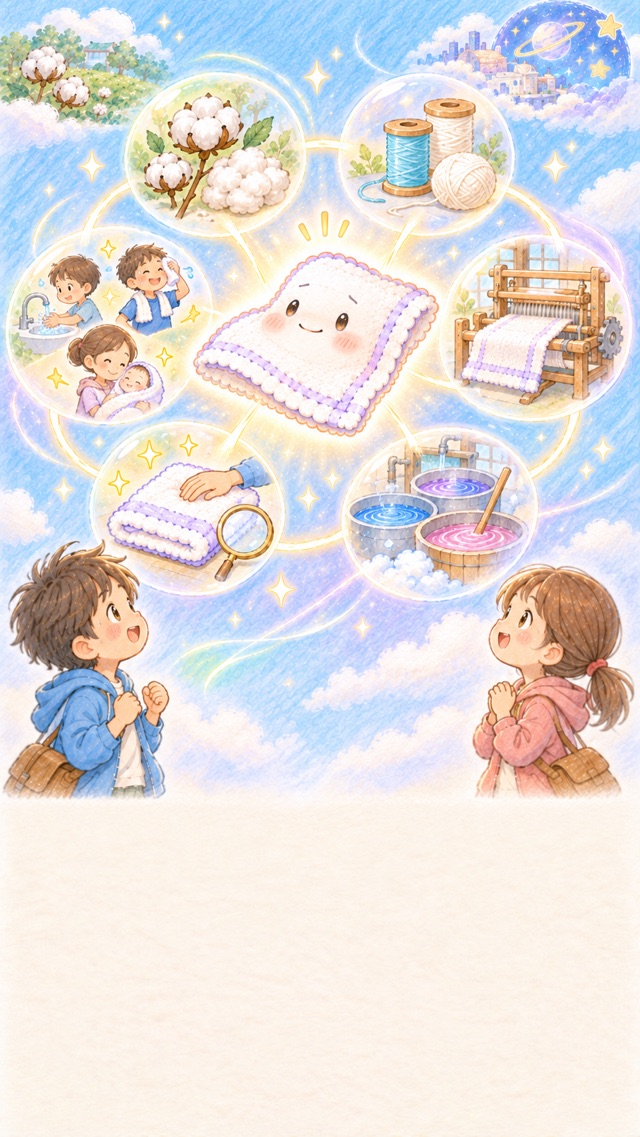
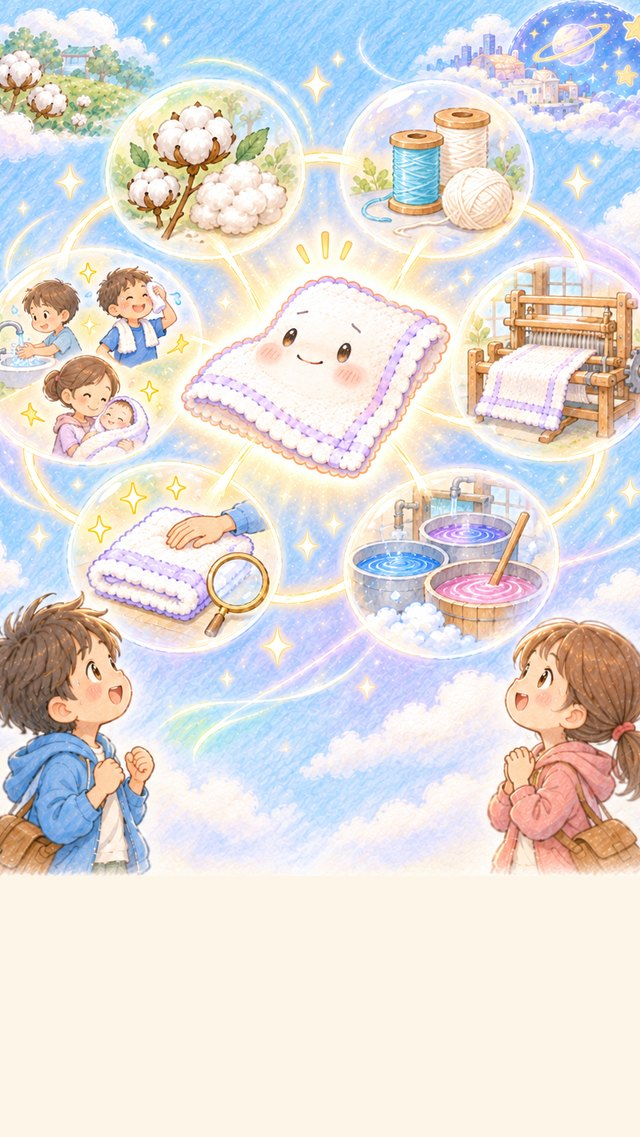
11/27-6: オープニング・エンディングの絵を同じ型（640×1137・白地77%）に作り直し、帯の高さを固定

diff --git a/versions/kento/js/main.js b/versions/kento/js/main.js
@@ -695,35 +695,27 @@ const Main = (() => {
   }
 
   // ===== オープニング（10/31-6）: 絵1枚＋その下の文の11画面。タップで次へ、右上の「とばす」、最後のあとはタイトルへ =====
-  const OP_ART = 1672 / 941;   // 絵の縦横比
+  const OP_ART = 1137 / 640;   // 絵の縦横比（11/27-6: 24枚とも 640×1137）
   const STORY_FONT = 15, STORY_LH = 1.4, STORY_BAND_LH = 21;   // 11/27-1e: オープニング・エンディング共通の字の大きさと行間（帯の行の高さ 15×1.4）
-  // ===== 11/27-5 決定: めくっても絵の枠と白地（文の場所）が動かない（オープニング・エンディング共通） =====
-  //   白地の上辺は全画面で同じ線: 画面の幅いっぱいの絵（入らなければ高さに合わせた絵）の高さ × STORY_LINE。この線より上が「絵の枠」、下が「文の場所」
-  //   絵は枠に合わせて拡大縮小する: 上を基準に、絵の中の白地の始まり（STORY_CREAM。1枚ずつ測った値）がちょうど線に来る大きさ。横は画面の幅いっぱい（はみ出す分は左右均等に切る）
-  //   線は絵の中の白地の始まりのいちばん低い値（エンディング 0.77 ＝ 決定の値。オープニング 0.775 ＝ 画面8）なので、どの絵も画面の幅より細くならない
-  //   ナレーションの帯・「タップで次へ」「○/13」「とばす」の位置も全画面で同じ。文が白地に入らない画面は、文を分けて次のタップに回す（文は変えない）
-  const STORY_LINE = { op: 0.775, ed: 0.77 };
-  // 絵の中の白地の始まり（絵の高さに対する割合。11/27-5 に、下から行ごとに白地の色かを見て測った）
-  const STORY_CREAM = {
-    op: [0.770, 0.738, 0.748, 0.747, 0.771, 0.746, 0.746, 0.775, 0.758, 0.742, 0.726],                  // op_01〜op_11
-    ed: [0.748, 0.717, 0.754, 0.737, 0.718, 0.703, 0.715, 0.769, 0.763, 0.718, 0.724, 0.721, 0.736],    // e01〜e13
-  };
+  // ===== 11/27-6 決定: 絵は表示時に拡大縮小せず、あらかじめ同じ型に切った画像にする（オープニング・エンディング共通） =====
+  //   型: 640×1137 の JPEG。上から0〜77%が絵、77%〜100%が白地（全部同じクリーム色 #fcf5e8 ＝ 画面の地の色）。作り方は docs/story_images.py
+  //   表示は、この画像を枠（画面の幅いっぱい。入らなければ高さに合わせる）にそのまま置くだけ。画面ごとの拡大縮小・左右のぼかし埋めはしない
+  //   画面の幅が広いときの左右の余白は、画面の地の色（白地と同じクリーム色）
+  //   絵の枠・白地・帯・「タップで次へ」「○/13」「とばす」の位置は、全画面で同じpx
+  const STORY_LINE = 0.77;     // 白地の上辺（絵の高さに対する割合）
+  const STORY_BAND_ROWS = { op: 3, ed: 2 };   // 11/27-6 決定: ナレーションの帯の高さ（行の数。行の高さ 15px×1.4）。行が少ない画面でも高さは同じ
   const STORY_TALK_MAX = 3;    // 1回に出す会話は3つまで（11/27-1b・11/27-1e）
   // 枠と白地の位置（画面の大きさだけで決まる。どの画面でも同じ）
-  function storyGeo(sc, kind) {
+  function storyGeo(sc) {
     const W = sc.clientWidth, H = sc.clientHeight;
     let iw = W, ih = W * OP_ART;
     if (ih > H) { ih = H; iw = H / OP_ART; }
-    const line = Math.round(ih * STORY_LINE[kind] * 10) / 10;
-    return { W, H, line, left: (W - iw) / 2, iw, tw: Math.min(iw, 520) - 24 };
+    const line = Math.round(ih * STORY_LINE * 10) / 10;
+    return { W, H, line, left: (W - iw) / 2, iw, ih, tw: Math.min(iw, 520) - 24 };
   }
-  // 絵を枠に合わせる（上を基準に、絵の白地の始まりを線に）
-  function storyFit(g, kind, n, img, blur, paper) {
-    const c = STORY_CREAM[kind][n] || STORY_LINE[kind];
-    const h = g.line / c, w = h / OP_ART;
-    Object.assign(img.style, { width: `${w}px`, height: `${h}px`, left: `${(g.W - w) / 2}px`, top: "0px" });
-    blur.style.height = `${g.line}px`;
-    blur.style.display = w < g.W - 2 ? "" : "none";   // 絵が画面の幅より細いとき（横に広い画面）だけ、左右をぼかした絵で埋める
+  // 絵を枠にそのまま置く（11/27-6。絵ごとの拡大縮小はしない）
+  function storyPlace(g, img, paper) {
+    Object.assign(img.style, { width: `${g.iw}px`, height: `${g.ih}px`, left: `${g.left}px`, top: "0px" });
     paper.style.top = `${g.line}px`;
   }
   // 会話の高さを測る（白地の幅・字の大きさで）
@@ -754,7 +746,7 @@ const Main = (() => {
   const OP_FOOT = 40;          // 下の「タップで次へ」「○/11」の場所
   function opChunks(lines) {
     const narr = lines.filter(l => !OP_WHO.test(l)), talk = lines.filter(l => OP_WHO.test(l));
-    const sc = $("screen-opening"), g = storyGeo(sc, "op"), txt = $("op-text");
+    const sc = $("screen-opening"), g = storyGeo(sc), txt = $("op-text");
     Object.assign(txt.style, { width: `${g.tw}px`, fontSize: `${STORY_FONT}px`, lineHeight: String(STORY_LH) });
     const room = g.H - OP_FOOT - (g.line + 6);   // 11/27-5: 白地の高さ（線から下、下の文字の上まで）
     return storySplit(talk, gr => storyTextH(txt, gr.map(opLineHTML).join("")) <= room + 0.5)
@@ -768,16 +760,16 @@ const Main = (() => {
     const m = l.match(OP_WHO);
     return m ? `<p><span class="ed-who">${opHTML(m[1])}</span>${opHTML(m[2])}</p>` : `<p>${opHTML(l)}</p>`;
   }
-  // 11/27-5: 絵の枠と白地は全画面で同じ（storyGeo）。文の量で絵の大きさを変えない（前は文に合わせて絵を小さくしていた）
+  // 11/27-5・11/27-6: 絵の枠と白地は全画面で同じ（storyGeo）。文の量で絵の大きさを変えない
   function layoutOpening() {
     const sc = $("screen-opening"), txt = $("op-text");
     if (!sc.clientWidth || !sc.clientHeight) return;
-    const g = storyGeo(sc, "op");
+    const g = storyGeo(sc);
     Object.assign(txt.style, { width: `${g.tw}px`, fontSize: `${STORY_FONT}px`, lineHeight: String(STORY_LH), top: `${g.line + 6}px` });
-    storyFit(g, "op", opIdx, $("op-img"), $("op-blur"), $("op-paper"));
+    storyPlace(g, $("op-img"), $("op-paper"));
     const band = $("op-band");
     Object.assign(band.style, { left: `${g.left}px`, width: `${g.iw}px`, fontSize: `${STORY_FONT}px`, lineHeight: `${STORY_BAND_LH}px` });
-    storyBand(band, opParts[opPart].narr.map(opHTML));
+    storyBand(band, opParts[opPart].narr.map(opHTML), STORY_BAND_ROWS.op);
     const r = txt.getBoundingClientRect(), s0 = sc.getBoundingClientRect();
     return { fit: r.bottom - s0.top <= g.H - OP_FOOT + 0.5, over: Math.round(r.bottom - s0.top - (g.H - OP_FOOT)) };
   }
@@ -790,7 +782,6 @@ const Main = (() => {
     img.style.visibility = "";
     img.onerror = () => { img.style.visibility = "hidden"; };   // 絵が読めなくても、文は読める
     img.src = opSrc(i);
-    $("op-blur").style.backgroundImage = `url(${opSrc(i)})`;
     opParts = opChunks(list[i]);
     $("op-page").textContent = `${i + 1}/${list.length}`;   // 数字は絵の枚数のまま
     showOpeningPart(0);
@@ -813,7 +804,7 @@ const Main = (() => {
         const r = showOpeningPart(k), band = $("op-band");
         out.push(Object.assign({ screen: i + 1, part: k + 1, narr: p.narr.length, talk: p.talk.length, rows: band.children.length,
           bandBottom: Math.round(band.getBoundingClientRect().bottom), textTop: Math.round($("op-text").getBoundingClientRect().top),
-          rowsText: [...band.children].map(e => e.textContent.slice(0, 12) + `(${Math.round((e.clientHeight - 10) / STORY_BAND_LH)}行)`) }, r, fn ? { x: fn() } : {}));
+          lines: +band.dataset.lines || 0 }, r, fn ? { x: fn() } : {}));
       });
     });
     return out;
@@ -852,7 +843,7 @@ const Main = (() => {
       if (!s || s.scene !== l.scene) scenes.push(s = { scene: l.scene, img: l.img, narr: [], talk: [] });
       (l.who ? s.talk : s.narr).push(l);
     }
-    const sc = $("screen-story"), g = storyGeo(sc, "ed"), txt = $("ed-text");
+    const sc = $("screen-story"), g = storyGeo(sc), txt = $("ed-text");
     Object.assign(txt.style, { width: `${g.tw}px`, fontSize: `${ED_FONT}px`, lineHeight: String(STORY_LH) });
     const room = foot => g.H - foot - (g.line + 6);
     scenes.forEach((s, si) => {
@@ -864,37 +855,36 @@ const Main = (() => {
   }
   // 11/27-1c 決定: 会話は文字単位でふつうに折り返す（語のまとまりで改行を止める処理 Cards.phraseHTML は使わない。ルビは漢字のかたまりの上につくので、そのかたまりの中では折り返さない）
   const edTalkHTML = l => `<p><span class="ed-who">${Ruby.html(l.who)}</span>「${Ruby.html(l.text)}」</p>`;
-  // ===== 11/27-1e: ナレーションの帯（オープニング・エンディング共通） =====
-  //   全部を続けて1本に。2行をこえるときは、文の切れ目で段に分ける（最大3段）。分け方は、どの段も2行以内になるいちばん少ない段の数で、
-  //   その中でいちばん長い段の行が少ない分け方（3段でも2行をこえるときは、いちばん長い段がいちばん短くなる分け方）。11/27-1b のシーン12の2段（2本＋1本）と同じ結果
-  //   出るときは左から右へのワイプ（11/27-1f。CSS の .ed-band-row。0.5秒・端は24pxぼかす。段が複数なら上から0.15秒ずつずらす）。帯はタップを受けないので、途中でも次へ進める
-  function storyBand(box, texts) {   // texts: ルビつきの HTML の文
+  // ===== ナレーションの帯（オープニング・エンディング共通） =====
+  //   11/27-6 決定: 帯は高さを固定した1つの箱（オープニング3行分、エンディング2行分）。上辺の位置も固定。文は帯の左上から。
+  //   地の文がいくつもあるときも、同じ箱の中に行として入れる（段ごとに別の帯にしない）。分け方は、行の数がいちばん少なくなる分け方
+  //   （同じ行の数なら、文の切れ目で改行する分け方。最大3つに分ける）。行が少ない画面でも帯の高さは変えない
+  //   出るときは左から右へのワイプ（11/27-1f。CSS の .ed-band-row。0.5秒・端は24pxぼかす。行のまとまりが複数なら上から0.15秒ずつずらす）。帯はタップを受けないので、途中でも次へ進める
+  function storyBand(box, texts, rows) {   // texts: ルビつきの HTML の文。rows: 帯の高さ（行の数）
     box.style.display = texts.length ? "" : "none";
-    if (!texts.length) { box.innerHTML = ""; return; }
-    const draw = rows => {
-      box.innerHTML = rows.map((r, j) => `<div class="ed-band-row" style="animation-delay:${(j * 0.15).toFixed(2)}s">${r.join("　")}</div>`).join("");
-      return Math.max(...[...box.children].map(e => Math.round((e.clientHeight - 10) / STORY_BAND_LH)));
+    box.style.minHeight = `${rows * STORY_BAND_LH + 10}px`;   // 上下の内側の余白 5px ずつ。決めた行の数をこえる画面（11/27-6 の時点でオープニング画面5・10、エンディングのシーン12）は、文を切らないよう帯がのびる（報告して相談中）
+    if (!texts.length) { box.innerHTML = ""; box.dataset.lines = 0; return; }
+    const draw = parts => {
+      box.innerHTML = parts.map((r, j) => `<div class="ed-band-row" style="animation-delay:${(j * 0.15).toFixed(2)}s">${r.join("　")}</div>`).join("");
+      return [...box.children].reduce((t, e) => t + Math.round(e.clientHeight / STORY_BAND_LH), 0);
     };
     const n = texts.length, cuts = k => k === 1 ? [[]] : k === 2 ? [...Array(n - 1)].map((_, i) => [i + 1]) : [].concat(...[...Array(n - 2)].map((_, i) => [...Array(n - 2 - i)].map((_, j) => [i + 1, i + 2 + j])));
     const part = c => [0, ...c, n].slice(0, -1).map((x, i) => texts.slice(x, [...c, n][i]));
     let best = null;
-    for (let k = 1; k <= Math.min(3, n); k++) {
-      for (const c of cuts(k)) { const m = draw(part(c)); if (!best || m < best.m) best = { m, c }; }
-      if (best.m <= 2) break;
-    }
-    draw(part(best.c));
+    for (let k = 1; k <= Math.min(3, n); k++) for (const c of cuts(k)) { const m = draw(part(c)); if (!best || m <= best.m) best = { m, c }; }
+    box.dataset.lines = draw(part(best.c));   // 確かめ用: 行の数（帯の行の数をこえたら報告する）
     [...box.children].forEach(e => e.addEventListener("animationend", () => e.classList.add("open")));
   }
-  // 11/27-5: 絵の枠と白地は全画面で同じ（storyGeo）。絵は枠に合わせて拡大縮小（storyFit）。会話は白地の上辺から下
+  // 11/27-5・11/27-6: 絵の枠と白地は全画面で同じ（storyGeo）。絵は枠にそのまま置く（storyPlace）。会話は白地の上辺から下
   function layoutStory() {
     const sc = $("screen-story"), txt = $("ed-text"), pg = edList[edIdx];
     if (!sc.clientWidth || !sc.clientHeight || !pg) return {};
-    const g = storyGeo(sc, "ed");
-    storyFit(g, "ed", edImg - 1, $("ed-img"), $("ed-blur"), $("ed-paper"));
+    const g = storyGeo(sc);
+    storyPlace(g, $("ed-img"), $("ed-paper"));
     Object.assign(txt.style, { width: `${g.tw}px`, fontSize: `${ED_FONT}px`, lineHeight: String(STORY_LH), top: `${g.line + 6}px` });   // 11/27-1c: 左右の余白は12pxずつ
     const band = $("ed-band");
     Object.assign(band.style, { left: `${g.left}px`, width: `${g.iw}px`, fontSize: `${STORY_FONT}px`, lineHeight: `${STORY_BAND_LH}px` });   // 11/27-1e: 帯の字も15px・行間1.4（21px）
-    storyBand(band, pg.narr.map(l => Ruby.html(l.text)));
+    storyBand(band, pg.narr.map(l => Ruby.html(l.text)), STORY_BAND_ROWS.ed);
     const last = edIdx === edList.length - 1, reserve = last ? ED_FOOT_LAST : ED_FOOT;
     const r = txt.getBoundingClientRect(), s0 = sc.getBoundingClientRect();
     return { fit: r.bottom - s0.top <= g.H - reserve + 0.5, over: Math.round(r.bottom - s0.top - (g.H - reserve)) };
@@ -910,7 +900,6 @@ const Main = (() => {
       img.style.visibility = "";
       img.onerror = () => { img.style.visibility = "hidden"; };
       img.src = edSrc(edImg);
-      $("ed-blur").style.backgroundImage = `url(${edSrc(edImg)})`;
       $("ed-page").textContent = `${edImg}/13`;   // 絵の枚数のまま（2画面に分けたシーンは同じ数が続く）
       const song = edImg >= ED_TITLE_FROM ? "title" : "ending";
       if (song !== edSong) { edSong = song; Sound.play(song); }
@@ -924,7 +913,7 @@ const Main = (() => {
     return layoutStory();
   }
   // 確かめ用: 全部の画面が白地に入るか
-  window.__edFit = fn => { showScreen("story"); edList = edPages(); edImg = 0; const out = edList.map((p, i) => Object.assign({ scene: p.scene, talk: p.talk.length }, showStoryPage(i), fn ? { x: fn(i) } : {})); return out; };
+  window.__edFit = fn => { showScreen("story"); edList = edPages(); edImg = 0; const out = edList.map((p, i) => Object.assign({ scene: p.scene, talk: p.talk.length }, showStoryPage(i), { lines: +$("ed-band").dataset.lines || 0 }, fn ? { x: fn(i) } : {})); return out; };
   function toStory() {
     $("ed-skip").textContent = tx("ending.skip");
     $("ed-go").textContent = tx("ending.toTitle");

diff --git a/versions/kento/index.html b/versions/kento/index.html
@@ -12,13 +12,12 @@
   <link rel="preconnect" href="https://fonts.googleapis.com">
   <link rel="preconnect" href="https://fonts.gstatic.com" crossorigin>
   <link rel="stylesheet" href="https://fonts.googleapis.com/css2?family=Zen+Maru+Gothic:wght@500;700&display=swap">
-  <link rel="stylesheet" href="css/style.css?v=150">
+  <link rel="stylesheet" href="css/style.css?v=151">
 </head>
 <body>
   <div id="app">
     <!-- オープニング（10/31-6）: 絵1枚＋その下の文の11画面。記録がない最初の起動のときと、タイトルの「オープニングを見る」から -->
     <section id="screen-opening" class="screen">
-      <div id="op-blur" class="op-blur"></div>
       <img id="op-img" class="op-img" alt="">
       <div id="op-paper" class="story-paper"></div><!-- 11/27-5: 白地（文の場所）。上辺は全画面で同じ -->
       <div id="op-band" class="ed-band"></div>
@@ -28,7 +27,6 @@
     </section>
     <!-- エンディング（11/27-1 決定・指摘94）: オープニングと同じ紙芝居。絵13枚・セリフ51。ステージ12で宝石が12個そろった直後と、タイトルの「エンディングを見る」から -->
     <section id="screen-story" class="screen">
-      <div id="ed-blur" class="op-blur"></div>
       <img id="ed-img" class="op-img" alt="">
       <div id="ed-paper" class="story-paper"></div>
       <div id="ed-band" class="ed-band"></div>
@@ -303,17 +301,17 @@
   <!-- 横向きのとき -->
   <div id="rotate"><div><div class="rotate-icon"></div><p>縦にしてね</p></div></div>
 
-  <script src="data/words.js?v=150"></script>
-  <script src="data/stages.js?v=150"></script>
-  <script src="data/texts.js?v=150"></script>
-  <script src="data/ruby.js?v=150"></script>
-  <script src="js/ruby.js?v=150"></script>
-  <script src="js/audio.js?v=150"></script>
-  <script src="js/door.js?v=150"></script>
-  <script src="js/game.js?v=150"></script>
-  <script src="js/quiz.js?v=150"></script>
-  <script src="js/cards.js?v=150"></script>
-  <script src="js/recipebook.js?v=150"></script>
-  <script src="js/main.js?v=150"></script>
+  <script src="data/words.js?v=151"></script>
+  <script src="data/stages.js?v=151"></script>
+  <script src="data/texts.js?v=151"></script>
+  <script src="data/ruby.js?v=151"></script>
+  <script src="js/ruby.js?v=151"></script>
+  <script src="js/audio.js?v=151"></script>
+  <script src="js/door.js?v=151"></script>
+  <script src="js/game.js?v=151"></script>
+  <script src="js/quiz.js?v=151"></script>
+  <script src="js/cards.js?v=151"></script>
+  <script src="js/recipebook.js?v=151"></script>
+  <script src="js/main.js?v=151"></script>
 </body>
 </html>

diff --git a/versions/kento/css/style.css b/versions/kento/css/style.css
@@ -1119,3 +1119,10 @@ button.ub.ub-s { width: auto; padding: 5px 12px 6px; font-size: 14px; }
 .op-foot > span:first-child { position: absolute; right: calc(50% + 7px); white-space: nowrap; }
 .op-foot > span:last-child { position: absolute; left: calc(50% + 7px); white-space: nowrap; }
 .op-text p:last-child { margin-bottom: 0; }   /* 11/27-5: 最後の文の下の余白は白地の高さに数えない（見た目は同じ） */
+/* 11/27-6 決定: ナレーションの帯は高さを固定した1つの箱（高さは main.js の storyBand。オープニング3行分・エンディング2行分）。文は帯の左上から。
+   地の文がいくつもあっても同じ箱の中に行として入れる（段ごとに別の帯にしない）。帯の色・字・ワイプは前と同じ */
+.ed-band { box-sizing: border-box; display: block; gap: 0; background: rgba(0,0,0,.4); padding: 5px 12px; }
+.ed-band-row { background: none; padding: 0; }
+/* 11/27-6: 帯の中のルビは行の高さを広げない（行の間かくを 15px×1.4 にそろえ、帯の高さを固定するため）。ルビは漢字の真上に重ねて置く */
+.ed-band ruby { display: inline-block; position: relative; }
+.ed-band rt { position: absolute; left: -2em; right: -2em; bottom: 100%; margin-bottom: -2px; text-align: center; white-space: nowrap; }

diff --git a/versions/kento/docs/story_images.py b/versions/kento/docs/story_images.py
@@ -1,0 +1,62 @@
+# 11/27-6: オープニング・エンディングの絵を同じ型（640×1137、上から77%が絵、下はクリーム色）に作り直す
+import sys, os, glob, json
+import numpy as np
+from PIL import Image
+
+OW, OH, LINE = 640, 1137, 0.77
+LY = OH * LINE  # 875.49
+op_dir, ed_dir, out_dir, mode = sys.argv[1], sys.argv[2], sys.argv[3], sys.argv[4]
+
+def white_start(a):
+    """下から上へ、行ごとに白地の色（ほぼ一色）かを見て、白地の始まりの行（割合ではなく行の番号）を返す"""
+    H, W = a.shape[:2]
+    y0, y1 = round(H * 0.95), round(H * 0.98)
+    cr = a[y0:y1, 40:W - 40:4, :3].reshape(-1, 3).mean(0)
+    y = round(H * 0.95)
+    xs = slice(16, W - 16, 4)
+    while y > H * 0.5:
+        d = np.abs(a[y, xs, :3].astype(float) - cr).sum(1)
+        if (d > 30).mean() >= 0.02: break
+        y -= 1
+    return y + 1, cr
+
+op_src = sorted(glob.glob(os.path.join(op_dir, "統一版_*.png")))
+ed_src = sorted(glob.glob(os.path.join(ed_dir, "[01]*.png")))
+assert len(op_src) == 11 and len(ed_src) == 13, (len(op_src), len(ed_src))
+items = [("op_%02d.jpg" % (i + 1), p) for i, p in enumerate(op_src)] + [("ending/e%02d.jpg" % (i + 1), p) for i, p in enumerate(ed_src)]
+
+info = []
+for name, p in items:
+    im = Image.open(p).convert("RGB"); a = np.asarray(im)
+    Ho, Wo = a.shape[:2]
+    ws, cr = white_start(a)
+    info.append((name, p, Wo, Ho, ws, cr))
+cream = np.mean([i[5] for i in info], 0)
+CREAM = (252, 245, 232)  # 画面の地の色 #fcf5e8 にそろえる（24枚の平均は #fcf3e4 でほぼ同じ）
+
+if mode == "measure":
+    for name, p, Wo, Ho, ws, cr in info:
+        print(name, os.path.basename(p), Wo, Ho, "white", ws, round(ws / Ho, 4), "cream", [round(v) for v in cr])
+    print("CREAM", CREAM, "#%02x%02x%02x" % CREAM)
+    sys.exit()
+
+os.makedirs(os.path.join(out_dir, "ending"), exist_ok=True)
+for name, p, Wo, Ho, ws, cr in info:
+    im = Image.open(p).convert("RGB")
+    k = max(OW / Wo, LY / ws)               # 横は幅640以上、白地の始まりが77%の線に来る大きさ（小さいほう＝切る量がいちばん少ない）
+    bw, bh = OW / k, LY / k                  # 元の絵で使う範囲（幅、線より上の高さ）
+    x0 = (Wo - bw) / 2                       # 左右は均等に切る
+    y0 = ws - bh                             # 上は、はみ出す分だけ切る（0 以上）
+    rows = int(np.ceil(LY))                  # 876 行
+    art = im.resize((OW, rows), Image.LANCZOS, box=(x0, y0, x0 + bw, y0 + rows / k))
+    a = np.asarray(art).astype(float)
+    # 絵の中のクリーム色に近いところを、そろえたクリーム色へずらす（つなぎ目が出ないよう、近さで重みをつける）
+    d = np.abs(a - cr).sum(2, keepdims=True)
+    w = np.clip(1 - d / 45, 0, 1)
+    a = a + w * (np.array(CREAM) - cr)
+    out = np.empty((OH, OW, 3), float); out[:] = CREAM
+    out[:rows] = a
+    out[rows:] = CREAM
+    Image.fromarray(np.clip(np.round(out), 0, 255).astype(np.uint8)).save(os.path.join(out_dir, name), quality=86, optimize=True, progressive=True)
+    print(name, "k=%.4f" % k, "crop L/R=%.1f top=%.1f (元の画素)" % (x0, y0))
+print("CREAM", CREAM, "#%02x%02x%02x" % CREAM)

diff --git a/docs/変更の記録.md b/docs/変更の記録.md
@@ -966,3 +966,18 @@
 - 確認（機械で測った値。全画面で同じ）: 375×667 オープニング 絵の枠の上辺 0・下辺 516.4・白地の上辺 516.4（15回すべて）／エンディング 0・513.1・513.1（19回すべて）。390×844 オープニング 0・537・537（13回）／エンディング 0・533.6・533.6（14回）。絵の中の白地の始まりも全画面でこの線に一致。帯の上辺 52、「タップで次へ」「○/13」の上辺 638.8（390×844 は 815.8）、「とばす」の上辺 10 も全画面同じ。（11/27-5追加）
 - 写真（375×667）: 01 エンディングのシーン1／02 シーン6／03 最後の画面（「タイトルへ」）／04 オープニングの画面1／05 画面5。（11/27-5追加）
 - ?v=149 → 150。（11/27-5追加）
+
+## 11/27-6 オープニング・エンディングの絵を同じ型に、帯の高さを固定
+
+- 決定: オープニング・エンディングの絵は、表示時に拡大縮小せず、あらかじめ同じ型（同じ縦横比・同じ白地の位置）に切った画像にする。不要な部分（上下左右のはみ出し）は切り捨ててよい。（11/27-6追加）
+- 決定: ナレーションの帯は高さを固定する（オープニングは3行分、エンディングは2行分）。文は帯の左上から始める。行数が少ない画面でも帯の高さは変えない。（11/27-6追加）
+- 決定: 絵の枠・白地・帯・「タップで次へ」「○/13」「とばす」の位置は、全画面で同じpx。（11/27-6追加）
+- 絵の作り直し: 元の絵（オープニングは 資料/絵/制作者側_1030/オープニング/ の「統一版_01〜11」、エンディングは versions/kento/docs/エンディング/ の01〜12）から24枚を作り直した。全部 640×1137 の JPEG。上から0〜77%が絵、77%〜100%が白地。各絵の白地の始まりが77%の線（875.5px）に来る大きさにし、はみ出す左右（上が余る絵は上）を切った。白地は全部同じクリーム色 #fcf5e8（画面の地の色。24枚の平均 #fcf3e4 とほぼ同じ）に塗り、絵の中のクリーム色に近いところも同じ色へずらした（つなぎ目が出ないように）。作り方は versions/kento/docs/story_images.py。（11/27-6追加）
+- 機械で確かめた白地の始まり（1137px のうち）: op_01 876・op_02 876・op_03 876・op_04 876・op_05 875・op_06 876・op_07 875・op_08 876・op_09 876・op_10 873・op_11 875、e01 875・e02 876・e03 875・e04 875・e05 875・e06 875・e07 875・e08 875・e09 876・e10 876・e11 875・e12 875・e13 876（線は875.5。op_10 は絵の端がうすく、3px 上で白地と判定）。（11/27-6追加）
+- 表示: 画像を枠（画面の幅いっぱい。入らなければ高さに合わせる）にそのまま置くだけ。絵ごとの拡大縮小（STORY_CREAM）と左右のぼかし埋め（op-blur・ed-blur）はやめた。横に広い画面の左右は画面の地の色（白地と同じクリーム色）。白地の上辺は枠の高さの77%（オープニングも 77.5%→77%）。（11/27-6追加）
+- 帯: 1つの箱（黒40%）にして高さを固定（オープニング 3行×21px＋上下5px＝73px、エンディング 2行＝52px）。上辺は52px。地の文がいくつもあっても同じ箱の中に行として入れ、行の数がいちばん少ない分け方にする（同じなら文の切れ目で改行）。帯の中のルビは行の高さを広げないよう、漢字の上に重ねて置く（行の間かくがそろう）。（11/27-6追加）
+- 帯の行が決めた数をこえる画面（375×667・390×844 とも同じ）: オープニング画面5（地の文3つ・4行）、画面10（地の文4つ・5行）、エンディングのシーン12（2行の帯に3行）。文を切らないよう、この3画面だけ帯が下にのびる（相談中）。（11/27-6追加）
+- 画面の数: 375×667 でオープニング15回・エンディング19回、390×844 で13回・14回（11/27-5 と同じ）。両方の大きさで全部の回の会話が白地に入る。最後の画面の「タイトルへ」は白地の中（375×667 で 613〜633）。（11/27-6追加）
+- 測った位置（全画面で同じ値）: 375×667 は 枠の上0・枠の下（白地の上辺）513・帯 52〜125（オープニング）／52〜104（エンディング）・「タップで次へ」「○/13」の上 638.8・「とばす」の上10。390×844 は 枠の下533.5・帯は同じ・下の文字の上 815.8。（11/27-6追加）
+- 写真: docs/検討版画面_1127-6_01〜07（375×667。エンディングのシーン1・2・6・最後、オープニングの画面1・5・10）。（11/27-6追加）
+- ?v=150→151。（11/27-6追加）
